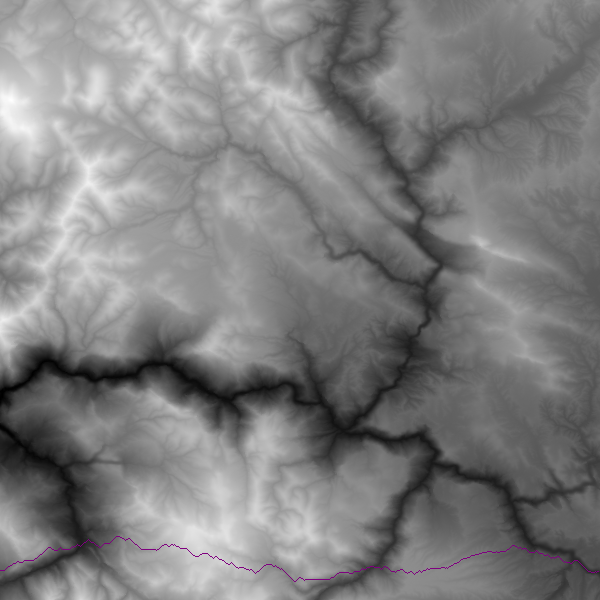
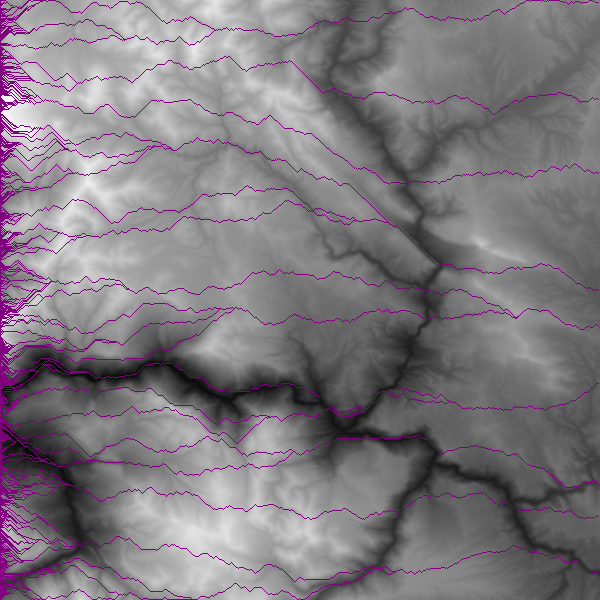
Pathfound all starting points. Next: highlight best path.

diff --git a/pathfinder.py b/pathfinder.py
@@ -9,15 +9,25 @@ def color_calc(min_ele, max_ele, current_ele):
     return color_code
 
 
-def check_elevations(current_loc):
-    OPTION_A = [current_loc[0]-1, current_loc[1]+1, matrix[int(current_loc[0])-1][int(current_loc[1]+1)]] # noqa
-    OPTION_B = [current_loc[0], current_loc[1]+1, matrix[int(current_loc[0])][int(current_loc[1])+1]] # noqa
-    OPTION_C = [current_loc[0]+1, current_loc[1]+1, matrix[int(current_loc[0])+1][int(current_loc[1]+1)]] # noqa
+def track_best_path():
+    pass
 
+
+def check_elevations(current_loc):
+    i = int(current_loc[0])
+    j = int(current_loc[1])
+    elevation = current_loc[2]
     elevation_comparison = []
-    elevation_comparison.append(np.abs(OPTION_A[2] - current_loc[2]))
-    elevation_comparison.append(np.abs(OPTION_B[2] - current_loc[2]))
-    elevation_comparison.append(np.abs(OPTION_C[2] - current_loc[2]))
+
+    if (i < 600) and (j < 599):
+        OPTION_A = [i-1, j+1, matrix[i-1][j+1]] # noqa
+        elevation_comparison.append(np.abs(OPTION_A[2] - elevation))
+    if (i < 600) and (j < 599):
+        OPTION_B = [i, j+1, matrix[i][j+1]] # noqa
+        elevation_comparison.append(np.abs(OPTION_B[2] - elevation))
+    if (i < 599) and (j < 599):
+        OPTION_C = [i+1, j+1, matrix[i+1][j+1]] # noqa
+        elevation_comparison.append(np.abs(OPTION_C[2] - elevation))
 
     small_ele_change = np.amin(elevation_comparison)
     change_index = elevation_comparison.index(small_ele_change)
@@ -29,15 +39,8 @@ def check_elevations(current_loc):
         return OPTION_C
 
 
-def map_path(file, start_loc):
+def map_path(start_loc):
     from PIL import ImageColor
-
-    # map_unmarked = Image.open(f'MAP - {Path(file).stem}.png')
-    # map_Copy = map_unmarked.copy()
-
-    # STARTING_LOC = (np.floor(rows/2), 0)
-    # x = int(STARTING_LOC[0])
-    # y = int(STARTING_LOC[1])
 
     x = int(start_loc[0])
     y = int(start_loc[1])
@@ -49,13 +52,6 @@ def map_path(file, start_loc):
         current_loc = check_elevations(current_loc)
         x = int(current_loc[0])
         y = int(current_loc[1])
-
-    # map_Copy.save(f'PATH - {Path(file).stem}.png')
-
-    """ print()
-    print('Calculating path...')
-    print(f'Saving path for {file}...')
-    print('...Saved!') """
 
 
 def create_image(file):
@@ -92,12 +88,17 @@ if __name__ == "__main__":
         map_unmarked = Image.open(f'MAP - {Path(file).stem}.png')
         map_Copy = map_unmarked.copy()
 
+        print(f'\nPathfinding through {file}...')
+
         x = 0
-        for x in range(ROWS-2):
+        for x in range(ROWS):
             location = (x, 0)
-            map_path(file, location)
+            map_path(location)
 
         map_Copy.save(f'PATH - {Path(file).stem}.png')
+        print(f'Saving PATH - {Path(file).stem}.png...')
+        print('...Saved!')
+
     else:
         print(f"{file} does not exist!")
         exit(1)
